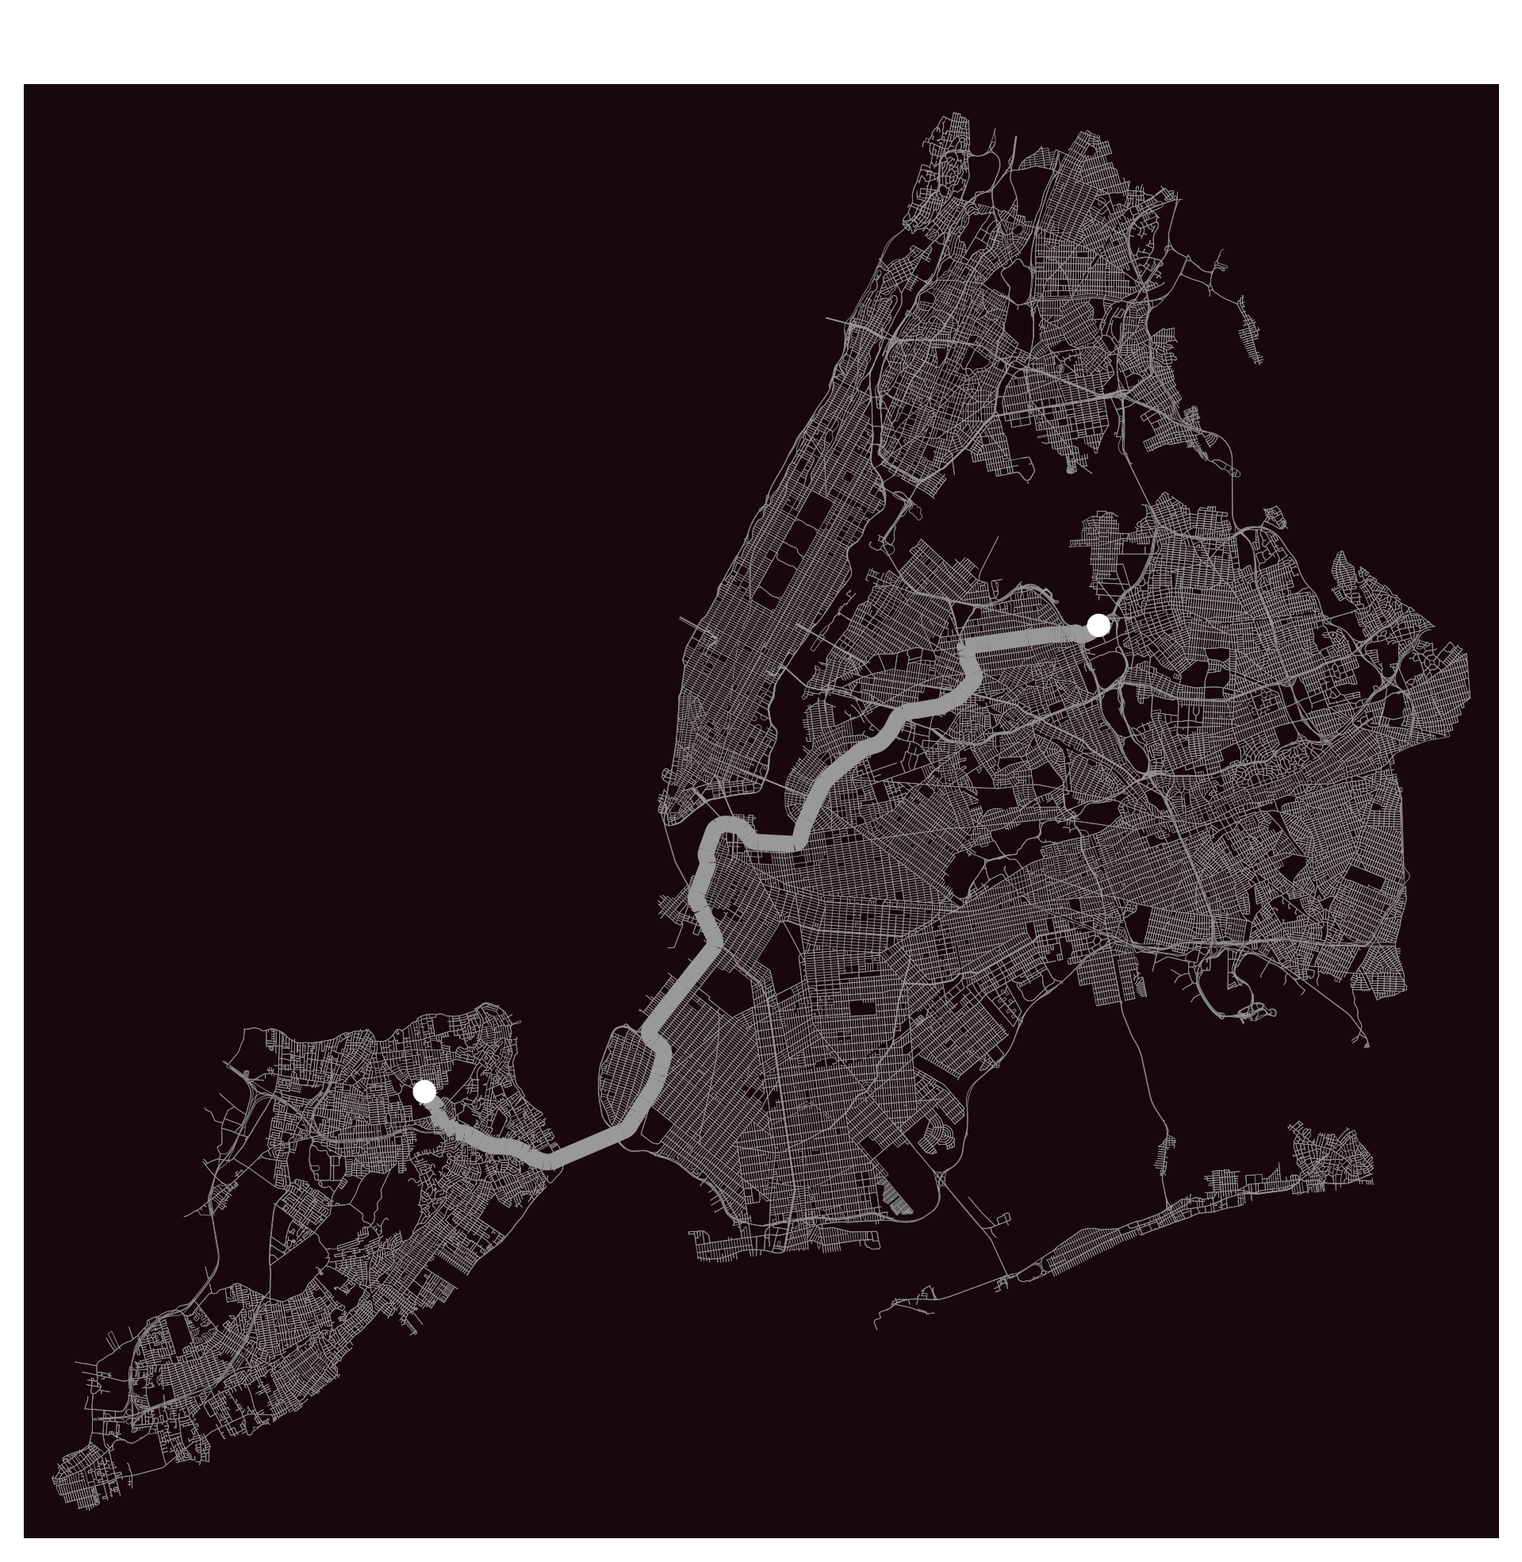
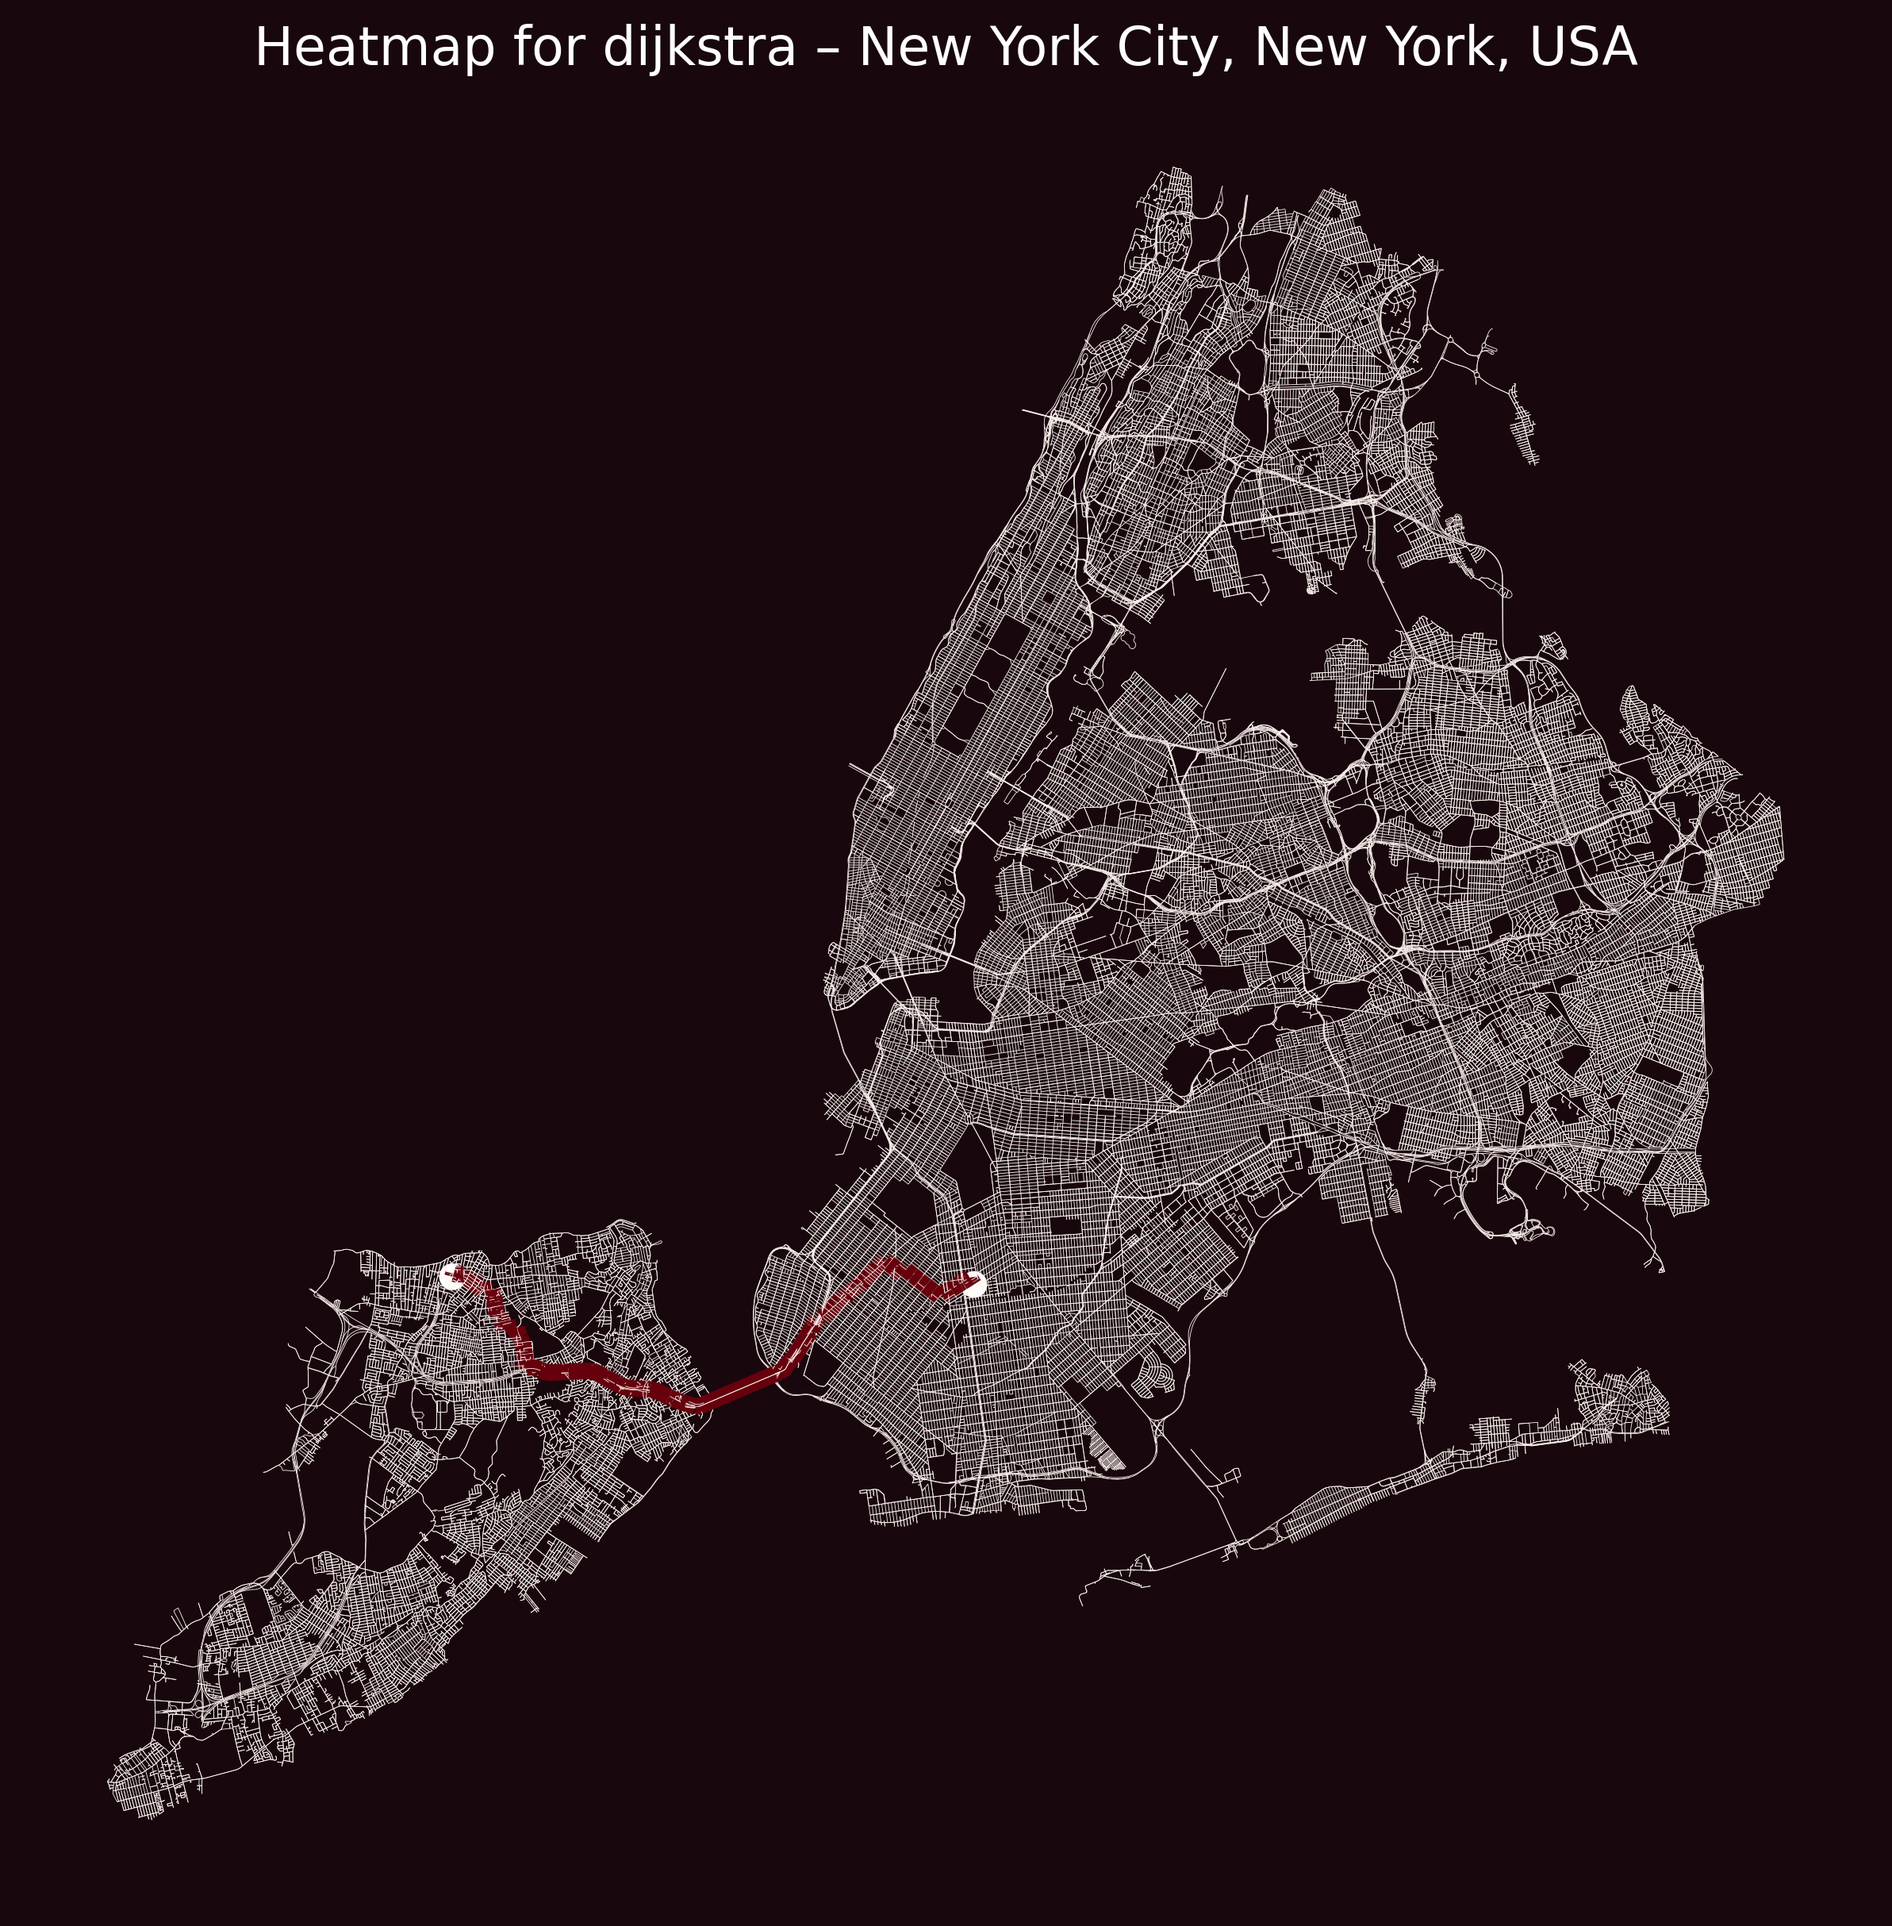
fatto bene

diff --git a/Dijkstra.py b/Dijkstra.py
@@ -1,0 +1,131 @@
+import osmnx as ox
+import random
+import heapq
+
+def style_unvisited_edge(edge):        
+    G.edges[edge]["color"] = "#d36206"
+    G.edges[edge]["alpha"] = 1
+    G.edges[edge]["linewidth"] = 0.2
+
+def style_visited_edge(edge):
+    #G.edges[edge]["color"] = "#d36206"
+    G.edges[edge]["color"] = "green"
+    G.edges[edge]["alpha"] = 1
+    G.edges[edge]["linewidth"] = 1
+
+def style_active_edge(edge):
+    #G.edges[edge]["color"] = '#e8a900'
+    G.edges[edge]["color"] = "red"
+    G.edges[edge]["alpha"] = 1
+    G.edges[edge]["linewidth"] = 1
+
+def style_path_edge(edge):
+    G.edges[edge]["color"] = "white"
+    G.edges[edge]["alpha"] = 1
+    G.edges[edge]["linewidth"] = 5
+
+def plot_graph():
+    ox.plot_graph(
+        G,
+        node_size =  [ G.nodes[node]["size"] for node in G.nodes ],
+        edge_color = [ G.edges[edge]["color"] for edge in G.edges ],
+        edge_alpha = [ G.edges[edge]["alpha"] for edge in G.edges ],
+        edge_linewidth = [ G.edges[edge]["linewidth"] for edge in G.edges ],
+        node_color = "white",
+        bgcolor = "#18080e"
+    )
+
+def dijkstra(orig, dest, plot=False):
+    for node in G.nodes:
+        G.nodes[node]["visited"] = False
+        G.nodes[node]["distance"] = float("inf")
+        G.nodes[node]["previous"] = None
+        G.nodes[node]["size"] = 0
+    for edge in G.edges:
+        style_unvisited_edge(edge)
+    G.nodes[orig]["distance"] = 0
+    G.nodes[orig]["size"] = 50
+    G.nodes[dest]["size"] = 50
+    pq = [(0, orig)]
+    step = 0
+    while pq:
+        _, node = heapq.heappop(pq)
+        if node == dest:
+            print("Iterations:", step)
+            #plot_graph()
+            return
+        if G.nodes[node]["visited"]: continue
+        G.nodes[node]["visited"] = True
+        for edge in G.out_edges(node):
+            style_visited_edge((edge[0], edge[1], 0))
+            neighbor = edge[1]
+            weight = G.edges[(edge[0], edge[1], 0)]["weight"]
+            if G.nodes[neighbor]["distance"] > G.nodes[node]["distance"] + weight:
+                G.nodes[neighbor]["distance"] = G.nodes[node]["distance"] + weight
+                G.nodes[neighbor]["previous"] = node
+                heapq.heappush(pq, (G.nodes[neighbor]["distance"], neighbor))
+                for edge2 in G.out_edges(neighbor):
+                    style_active_edge((edge2[0], edge2[1], 0))
+        step += 1
+
+def reconstruct_path(orig, dest, plot=False, algorithm=None):
+    for edge in G.edges:
+        style_unvisited_edge(edge)
+    dist = 0
+    speeds = []
+    curr = dest
+    while curr != orig:
+        prev = G.nodes[curr]["previous"]
+        dist += G.edges[(prev, curr, 0)]["length"]
+        speeds.append(G.edges[(prev, curr, 0)]["maxspeed"])
+        style_path_edge((prev, curr, 0))
+        if algorithm:
+            G.edges[(prev, curr, 0)][f"{algorithm}_uses"] = G.edges[(prev, curr, 0)].get(f"{algorithm}_uses", 0) + 1
+        curr = prev
+    dist /= 1000
+
+def plot_heatmap(algorithm):
+    edge_colors = ox.plot.get_edge_colors_by_attr(G, f"{algorithm}_uses", cmap="hot")
+    fig, _ = ox.plot_graph(
+        G,
+        node_size =  [ G.nodes[node]["size"] for node in G.nodes ],
+        #edge_color = edge_colors,
+        edge_color = [ G.edges[edge]["color"] for edge in G.edges ],
+        edge_alpha = [ G.edges[edge]["alpha"] for edge in G.edges ],
+        edge_linewidth = [ G.edges[edge]["linewidth"] for edge in G.edges ],
+        bgcolor = "#18080e"
+    )
+
+#place_name = "Piedmont, California, USA"
+place_name = "Turin, Piedmont, Italy"
+G = ox.graph_from_place(place_name, network_type="drive")
+
+for edge in G.edges:
+    # Cleaning the "maxspeed" attribute, some values are lists, some are strings, some are None
+    maxspeed = 40
+    if "maxspeed" in G.edges[edge]:
+        maxspeed = G.edges[edge]["maxspeed"]
+        if type(maxspeed) == list:
+            speeds = [ int(speed) for speed in maxspeed ]
+            maxspeed = min(speeds)
+        elif type(maxspeed) == str:
+            maxspeed = maxspeed.strip(" mph")
+            maxspeed = int(maxspeed)
+    G.edges[edge]["maxspeed"] = maxspeed
+    # Adding the "weight" attribute (time = distance / speed)
+    G.edges[edge]["weight"] = G.edges[edge]["length"] / maxspeed
+
+
+for edge in G.edges:
+    G.edges[edge]["dijkstra_uses"] = 0
+
+start = random.choice(list(G.nodes))
+end = random.choice(list(G.nodes))
+
+print("Running Dijkstra")
+dijkstra(start, end)
+print( "Done")
+
+reconstruct_path(start, end, algorithm="dijkstra", plot=True)
+plot_heatmap("dijkstra")
+

diff --git a/motionPlaning.py b/motionPlaning.py
@@ -7,6 +7,7 @@ import matplotlib.pyplot as plt
 import geopandas as gpd
 import pandas as pd
 
+MAX_SPEED = 40
 
 def style_unvisited_edge(G, edge):        
     G.edges[edge]["color"] = "#d36206"
@@ -157,10 +158,11 @@ def A_star(G, orig, dest, plot=False):
 
 
 
+
 def heuristic(G,node1, node2):
     lat1, lon1 = G.nodes[node1]["y"], G.nodes[node1]["x"]
     lat2, lon2 = G.nodes[node2]["y"], G.nodes[node2]["x"]
-    return ox.distance.great_circle(lat1, lon1, lat2, lon2) / 1000 
+    return ox.distance.great_circle(lat1, lon1, lat2, lon2) / MAX_SPEED 
 
 
 
@@ -182,30 +184,43 @@ def reconstruct_path(G,orig, dest, plot=False, algorithm=None):
     dist /= 1000
     return dist
 
-def plot_heatmap(G, algorithm, place_name=None):
-    fig, ax = ox.plot_graph(
-        G,
-        node_size=[G.nodes[n]["size"] for n in G.nodes],
-        edge_alpha=[G.edges[e]["alpha"] for e in G.edges],
-        edge_linewidth=[G.edges[e]["linewidth"] for e in G.edges],
-        bgcolor="#18080e",
-        show=False,
-        close=False
+def plot_heatmap(G, algorithm, place_name=None, save=True, figsize=(10, 10), cmap="Reds"):
+    nodes, edges = ox.graph_to_gdfs(G, nodes=True, edges=True)
+
+    fig, ax = plt.subplots(figsize=figsize)
+    fig.patch.set_facecolor("#18080e")
+    ax.set_facecolor("#18080e")
+    ax.axis("off")
+
+    edges.plot(
+        ax=ax,
+        column=f"{algorithm}_uses" if f"{algorithm}_uses" in edges.columns else None,
+        cmap=cmap,
+        linewidth=edges.get("linewidth", 1),
+        alpha=edges.get("alpha", 0.7),
+        legend=False
     )
+
+    nodes.plot(
+        ax=ax,
+        markersize=nodes.get("size", 10),
+        color="white",
+        alpha=1
+    )
+
     title = f"Heatmap for {algorithm}"
     if place_name:
-        title += f" - {place_name}"
-    ax.set_title(title, fontsize=16, color="white")
+        title += f" – {place_name}"
+    ax.set_title(title, color="white", fontsize=16)
+    
+    if save:
+        results_dir = os.path.join(os.path.dirname(__file__), "results")
+        os.makedirs(results_dir, exist_ok=True)
+        key = place_name.replace(", ", "_").replace(" ", "_") if place_name else "heatmap"
+        outpath = os.path.join(results_dir, f"{key}_{algorithm}_heatmap.png")
+        fig.savefig(outpath, dpi=300, bbox_inches="tight", facecolor=fig.get_facecolor())
 
-    results_dir = os.path.join(os.path.dirname(__file__), "results")
-    os.makedirs(results_dir, exist_ok=True)
-    key = place_name.replace(", ", "_").replace(" ", "_") if place_name else "heatmap"
-    fig.savefig(
-        os.path.join(results_dir, f"{key}_{algorithm}_heatmap.png"),
-        dpi=300, bbox_inches="tight"
-    )
-
-    plt.show()
+    #plt.show()
     plt.close(fig)
 
     
@@ -265,7 +280,7 @@ def plot_overlay_heatmap(G, F,
         )
         fig.savefig(outpath, dpi=300, bbox_inches="tight", facecolor=fig.get_facecolor())
 
-    plt.show()
+    #plt.show()
     plt.close(fig)
     
 
@@ -307,7 +322,7 @@ if __name__ == "__main__":
         print("Number of nodes:", len(G.nodes))
         print("Number of edges:", len(G.edges))
         for edge in G.edges:
-            maxspeed = 40
+            maxspeed = MAX_SPEED
             
             if "maxspeed" in G.edges[edge] and G.edges[edge]["maxspeed"] is not None:
                 raw = G.edges[edge]["maxspeed"]
@@ -401,9 +416,10 @@ if __name__ == "__main__":
         number_of_edges_algorithm.append(len([edge for edge in F.edges if F.edges[edge].get("A_star_uses", 0) > 0]))
         
         if args.plot:
-            plot_heatmap(G, "dijkstra", place_name)
-            plot_heatmap(F, "A_star", place_name)
+            plot_heatmap(G, "dijkstra", place_name, save=args.plot)
+            plot_heatmap(F, "A_star", place_name, save=args.plot)
             plot_overlay_heatmap(G, F, "dijkstra", "A_star", place_name=place_name, save=args.plot, figsize=(20, 10), cmap1="Reds", cmap2="Blues")
+            
 
     with open("results.txt", "w") as file:
         for i in range(len(place_names)):
